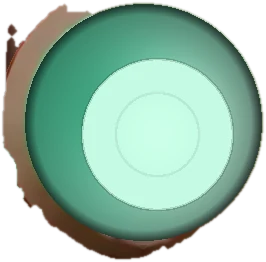
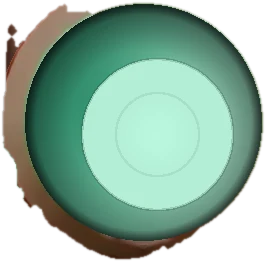
Żwawa miniatura #3: sejf — po interakcji kursorem własny cykl czeka 9 s (bez odbijania drzwi), szybsze odwracanie; dodatkowe mrugnięcia lampy w Infra, większy wskaźnik laserowy, większy donut, spokojniejsze wnętrze sejfu

Changed region(s): [[0.0902, 0.0, 0.8722, 0.855]]

diff --git a/app/globals.css b/app/globals.css
@@ -588,20 +588,24 @@ body.founder-mode {
   0%, 9% { opacity: 0; }
   9.1%, 10.4% { opacity: 1; } 10.5%, 11.4% { opacity: 0; }
   11.5%, 12.8% { opacity: .95; } 12.9%, 13.6% { opacity: 0; }
-  13.7%, 15.6% { opacity: 1; } 15.7%, 57% { opacity: 0; }
+  13.7%, 15.6% { opacity: 1; } 15.7%, 34% { opacity: 0; }
+  34.1%, 34.9% { opacity: .9; } 35%, 35.9% { opacity: 0; } 36%, 36.8% { opacity: .9; } 36.9%, 57% { opacity: 0; }
   57.1%, 61.5% { opacity: 1; }
   61.6%, 62.8% { opacity: .25; } 62.9%, 64.4% { opacity: 1; }
-  64.5%, 100% { opacity: 0; }
+  64.5%, 81% { opacity: 0; }
+  81.1%, 81.9% { opacity: .9; } 82%, 82.8% { opacity: 0; } 82.9%, 83.7% { opacity: .9; } 83.8%, 100% { opacity: 0; }
 }
 .amb-lamp-dev-on { animation: amb-lamp-dev-on 18.8s linear infinite; }
 @keyframes amb-lamp-dev-on {
   0%, 9% { opacity: 1; }
   9.1%, 10.4% { opacity: 0; } 10.5%, 11.4% { opacity: 1; }
   11.5%, 12.8% { opacity: .05; } 12.9%, 13.6% { opacity: 1; }
-  13.7%, 15.6% { opacity: 0; } 15.7%, 57% { opacity: 1; }
+  13.7%, 15.6% { opacity: 0; } 15.7%, 34% { opacity: 1; }
+  34.1%, 34.9% { opacity: .1; } 35%, 35.9% { opacity: 1; } 36%, 36.8% { opacity: .1; } 36.9%, 57% { opacity: 1; }
   57.1%, 61.5% { opacity: 0; }
   61.6%, 62.8% { opacity: .75; } 62.9%, 64.4% { opacity: 0; }
-  64.5%, 100% { opacity: 1; }
+  64.5%, 81% { opacity: 1; }
+  81.1%, 81.9% { opacity: .10; } 82%, 82.8% { opacity: 1; } 82.9%, 83.7% { opacity: .10; } 83.8%, 100% { opacity: 1; }
 }
 .amb-lamp-ceo { opacity: 0; animation: amb-lamp-ceo 23.6s linear infinite; }
 @keyframes amb-lamp-ceo {
@@ -672,8 +676,8 @@ body.founder-mode {
 }
 .amb-flow { opacity: 0; animation: amb-flow 20s linear infinite; }
 /* lampka "REC" kamery: równe, spokojne 1 Hz */
-.amb-rec { animation: amb-rec 2s steps(1, end) infinite; }
-@keyframes amb-rec { 0% { opacity: 1; } 50% { opacity: .08; } 100% { opacity: .08; } }
+.amb-rec { animation: amb-rec 6s steps(1, end) infinite; }
+@keyframes amb-rec { 0% { opacity: 1; } 38% { opacity: .08; } 43% { opacity: 1; } 46% { opacity: .08; } 50% { opacity: 1; } 82% { opacity: .08; } 100% { opacity: .08; } }
 /* poświata monitorów na biurku: nieregularne drganie jasności */
 .amb-screenglow { animation: amb-screenglow 5.3s linear infinite; }
 @keyframes amb-screenglow {
@@ -757,19 +761,48 @@ body.founder-mode {
 }
 /* laptopy kursantów: krótki błysk ekranu co 6.4 s, każdy z innym opóźnieniem */
 .amb-laptop { opacity: 0; animation: amb-laptop 6.4s steps(1, end) infinite; }
-@keyframes amb-laptop { 0% { opacity: .9; } 6% { opacity: .2; } 9% { opacity: .9; } 22%, 100% { opacity: 0; } }
+@keyframes amb-laptop { 0% { opacity: .9; } 6% { opacity: .3; } 9% { opacity: .9; } 22%, 100% { opacity: 0; } }
 /* webinar: wskaźnik laserowy (20 s, zsynchronizowany ze slajdami): wodzi po schemacie, słupkach, liście i donucie */
-.amb-laser { opacity: 0; animation: amb-laser 20s ease-in-out infinite; }
+.amb-laser { opacity: 0; animation: amb-laser 20s cubic-bezier(.4, 0, .2, 1) infinite; }
 @keyframes amb-laser {
-  0% { opacity: 0; transform: translate(1077%, 538%); }
-  3% { opacity: 1; transform: translate(846%, 500%); }
-  9% { transform: translate(615%, 269%); } 15% { transform: translate(1154%, 346%); } 21% { transform: translate(769%, 692%); }
-  24% { opacity: 1; } 25.5% { opacity: 0; transform: translate(846%, 769%); }
-  28% { opacity: 0; transform: translate(769%, 1000%); } 30% { opacity: 1; }
-  36% { transform: translate(1038%, 885%); } 42% { transform: translate(1269%, 538%); } 48% { opacity: 1; transform: translate(1308%, 462%); }
-  50% { opacity: 0; } 53% { opacity: 0; transform: translate(692%, 577%); } 55% { opacity: 1; }
-  60% { transform: translate(692%, 808%); } 66% { transform: translate(692%, 1038%); } 73% { opacity: 1; transform: translate(1000%, 1115%); }
-  75% { opacity: 0; } 78% { opacity: 0; transform: translate(1154%, 769%); } 80% { opacity: 1; }
-  87% { transform: translate(1269%, 577%); } 93% { transform: translate(1038%, 923%); } 98% { opacity: 1; }
-  100% { opacity: 0; transform: translate(1077%, 538%); }
+  0% { opacity: 0; transform: translate(287%, 196%); }
+  1.5% { opacity: 1; transform: translate(287%, 196%); }
+  4.5% { opacity: 1; transform: translate(287%, 196%); }
+  6% { opacity: 1; transform: translate(454%, 70%); }
+  9% { opacity: 1; transform: translate(454%, 70%); }
+  10.5% { opacity: 1; transform: translate(621%, 152%); }
+  13.5% { opacity: 1; transform: translate(621%, 152%); }
+  15% { opacity: 1; transform: translate(380%, 336%); }
+  18% { opacity: 1; transform: translate(380%, 336%); }
+  19.5% { opacity: 1; transform: translate(512%, 385%); }
+  23% { opacity: 1; transform: translate(512%, 385%); }
+  24% { opacity: 0; transform: translate(512%, 385%); }
+  26% { opacity: 0; transform: translate(370%, 298%); }
+  29% { opacity: 1; transform: translate(370%, 298%); }
+  32% { opacity: 1; transform: translate(370%, 298%); }
+  34% { opacity: 1; transform: translate(512%, 233%); }
+  38% { opacity: 1; transform: translate(512%, 233%); }
+  40% { opacity: 1; transform: translate(629%, 147%); }
+  47.5% { opacity: 1; transform: translate(629%, 147%); }
+  48.5% { opacity: 0; transform: translate(629%, 147%); }
+  51% { opacity: 0; transform: translate(463%, 190%); }
+  53% { opacity: 1; transform: translate(463%, 190%); }
+  56% { opacity: 1; transform: translate(463%, 190%); }
+  57.5% { opacity: 1; transform: translate(463%, 272%); }
+  60.5% { opacity: 1; transform: translate(463%, 272%); }
+  62% { opacity: 1; transform: translate(463%, 352%); }
+  65% { opacity: 1; transform: translate(463%, 352%); }
+  66.5% { opacity: 1; transform: translate(463%, 434%); }
+  72.5% { opacity: 1; transform: translate(463%, 434%); }
+  73.5% { opacity: 0; transform: translate(463%, 434%); }
+  76% { opacity: 0; transform: translate(562%, 190%); }
+  78% { opacity: 1; transform: translate(562%, 190%); }
+  82% { opacity: 1; transform: translate(562%, 190%); }
+  84% { opacity: 1; transform: translate(629%, 342%); }
+  88% { opacity: 1; transform: translate(629%, 342%); }
+  90% { opacity: 1; transform: translate(380%, 277%); }
+  96.5% { opacity: 1; transform: translate(380%, 277%); }
+  97.5% { opacity: 0; transform: translate(380%, 277%); }
+  100% { opacity: 0; transform: translate(287%, 196%); }
 }
+

diff --git a/components/diorama/Ambient.tsx b/components/diorama/Ambient.tsx
@@ -349,7 +349,7 @@ function Sparkles({ lite }: { lite?: boolean }) {
           style={{
             left: `${x}%`,
             top: `${y}%`,
-            width: '2%',
+            width: '3.2%',
             aspectRatio: '1',
             background: 'radial-gradient(circle, rgba(240,255,245,1) 18%, rgba(130,255,200,0.7) 42%, transparent 70%)',
             animationDuration: `${d}s`,
@@ -366,22 +366,32 @@ function Sparkles({ lite }: { lite?: boolean }) {
  * który zawsze płynnie dąży do celu: cel = otwarty w oknie cyklu (co 19 s) albo gdy kursor jest nad
  * pokojem. Dzięki temu hover i zegar nigdy się nie gryzą, a zamykanie po zjechaniu kursorem
  * zaczyna się z bieżącej fazy (bez przeskoku). Faza 0–0.4: koło robi pełny obrót, od 0.22: drzwi
- * (nakładają się, więc drzwi ruszają szybko). Cykl 13 s, otwarte ok. 4 s.
+ * (nakładają się, więc drzwi ruszają szybko). Sam otwiera się co 13 s na ~4.4 s; po interakcji kursorem
+ * własny cykl odczekuje 9 s (drzwi nie odbijają z powrotem zaraz po zamknięciu).
  */
-const VAULT_CYCLE = 13000
-const VAULT_OPEN: [number, number] = [6200, 10600] // okno "otwarte" w cyklu (ms)
+const VAULT_EVERY = 13000 // co ile sam się otwiera (ms)
+const VAULT_HOLD = 4400 // ile stoi otwarty
+const VAULT_QUIET = 9000 // po interakcji kursorem: tyle spokoju, zanim otworzy się sam
 const VAULT_SPEED = 1 / 2300 // pełne otwarcie ≈ 2.3 s (cykl)
-const VAULT_SPEED_HOT = 1 / 1300 // pod kursorem szybciej
-const vault = { p: 0, t: -1, tw: 0, subs: new Set<(p: number) => void>() }
+const VAULT_SPEED_HOT = 1 / 1200 // przy kursorze szybciej (w obie strony)
+const vault = { p: 0, t: -1, tw: 0, nextOpen: 6200, openUntil: 0, lastHot: -1e9, subs: new Set<(p: number) => void>() }
 const clamp01 = (v: number) => (v < 0 ? 0 : v > 1 ? 1 : v)
 const easeIO = (v: number) => (v < 0.5 ? 4 * v * v * v : 1 - Math.pow(-2 * v + 2, 3) / 2)
 const vaultDoor = (p: number) => easeIO(clamp01((p - 0.22) / 0.78))
 function stepVault(t: number, hot: boolean) {
   const dt = vault.t < 0 ? 0 : Math.min(100, t - vault.t)
   vault.t = t
-  const c = t % VAULT_CYCLE
-  const target = hot || (c >= VAULT_OPEN[0] && c < VAULT_OPEN[1]) ? 1 : 0
-  const sp = hot ? VAULT_SPEED_HOT : VAULT_SPEED
+  if (hot) {
+    // kursor przejmuje sejf: własny cykl czeka, aż minie chwila po odjechaniu
+    vault.lastHot = t
+    vault.openUntil = 0
+    vault.nextOpen = Math.max(vault.nextOpen, t + VAULT_QUIET)
+  } else if (t >= vault.nextOpen) {
+    vault.openUntil = t + VAULT_HOLD
+    vault.nextOpen = t + VAULT_EVERY
+  }
+  const target = hot || t < vault.openUntil ? 1 : 0
+  const sp = t - vault.lastHot < 2500 ? VAULT_SPEED_HOT : VAULT_SPEED
   const np = target > vault.p ? Math.min(1, vault.p + dt * sp) : Math.max(0, vault.p - dt * sp)
   // między otwarciami koło co ~3 s "próbuje" się obrócić (krótkie drgnięcie tam i z powrotem)
   const tw = (t % 3250) / 3250
@@ -564,7 +574,7 @@ function Laptops() {
             width: `${w}%`,
             height: `${h}%`,
             borderRadius: '6%',
-            background: i % 2 ? 'rgba(255,150,70,1)' : 'rgba(255,220,170,1)',
+            background: i % 2 ? 'rgba(255,150,70,1)' : 'rgba(255,184,96,1)',
             boxShadow: '0 0 1cqw rgba(255,170,90,0.8)',
             animationDelay: sec([0, 3.1, 1.4, 4.6, 2.2, 5.3][i]),
           }}
@@ -595,7 +605,7 @@ function Phone() {
         <Img src="phone-strip" className="amb-phone absolute left-0 w-full" style={{ top: `${ph.stripTop}%`, height: `${ph.stripH}%`, maxWidth: 'none' }} />
         <span
           className="amb-tap absolute rounded-full"
-          style={{ left: '52%', top: '68%', width: '80%', aspectRatio: '1', border: '0.8cqw solid rgba(255,130,50,1)', background: 'rgba(255,190,130,0.6)', boxShadow: '0 0 1.2cqw rgba(255,140,60,0.9)' }}
+          style={{ left: '52%', top: '68%', width: '80%', aspectRatio: '1', border: '0.9cqw solid rgba(255,120,40,1)', background: 'rgba(255,180,110,0.8)', boxShadow: '0 0 1.2cqw rgba(255,140,60,0.9)' }}
         />
       </div>
     </div>
@@ -774,7 +784,7 @@ function Slides() {
       {/* czerwona kropka wskaźnika laserowego prowadzącego — wędruje po treści slajdu */}
       <span
         className="amb-laser absolute rounded-full mix-blend-screen"
-        style={{ left: 0, top: 0, width: '6.5%', aspectRatio: '1', background: 'radial-gradient(circle, rgb(255,210,200) 12%, rgba(255,40,30,0.95) 30%, rgba(255,40,30,0.3) 52%, transparent 72%)' }}
+        style={{ left: 0, top: 0, width: '12%', aspectRatio: '1', background: 'radial-gradient(circle, rgb(255,255,255) 9%, rgb(255,20,20) 20%, rgba(255,20,20,0.55) 34%, rgba(255,20,20,0.18) 52%, transparent 70%)' }}
       />
     </div>
   )
